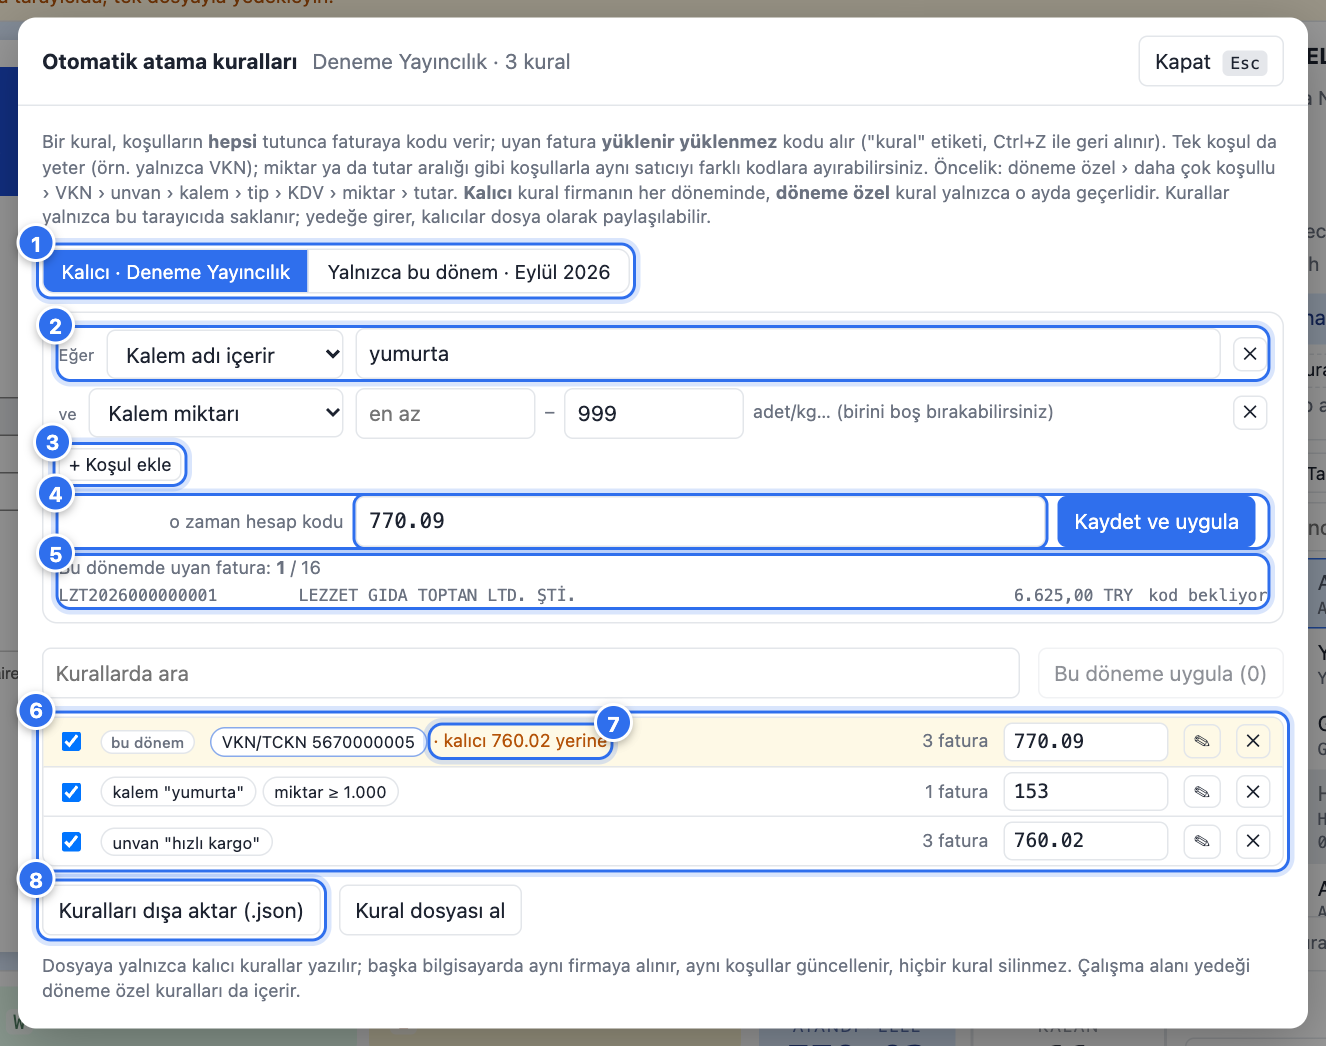
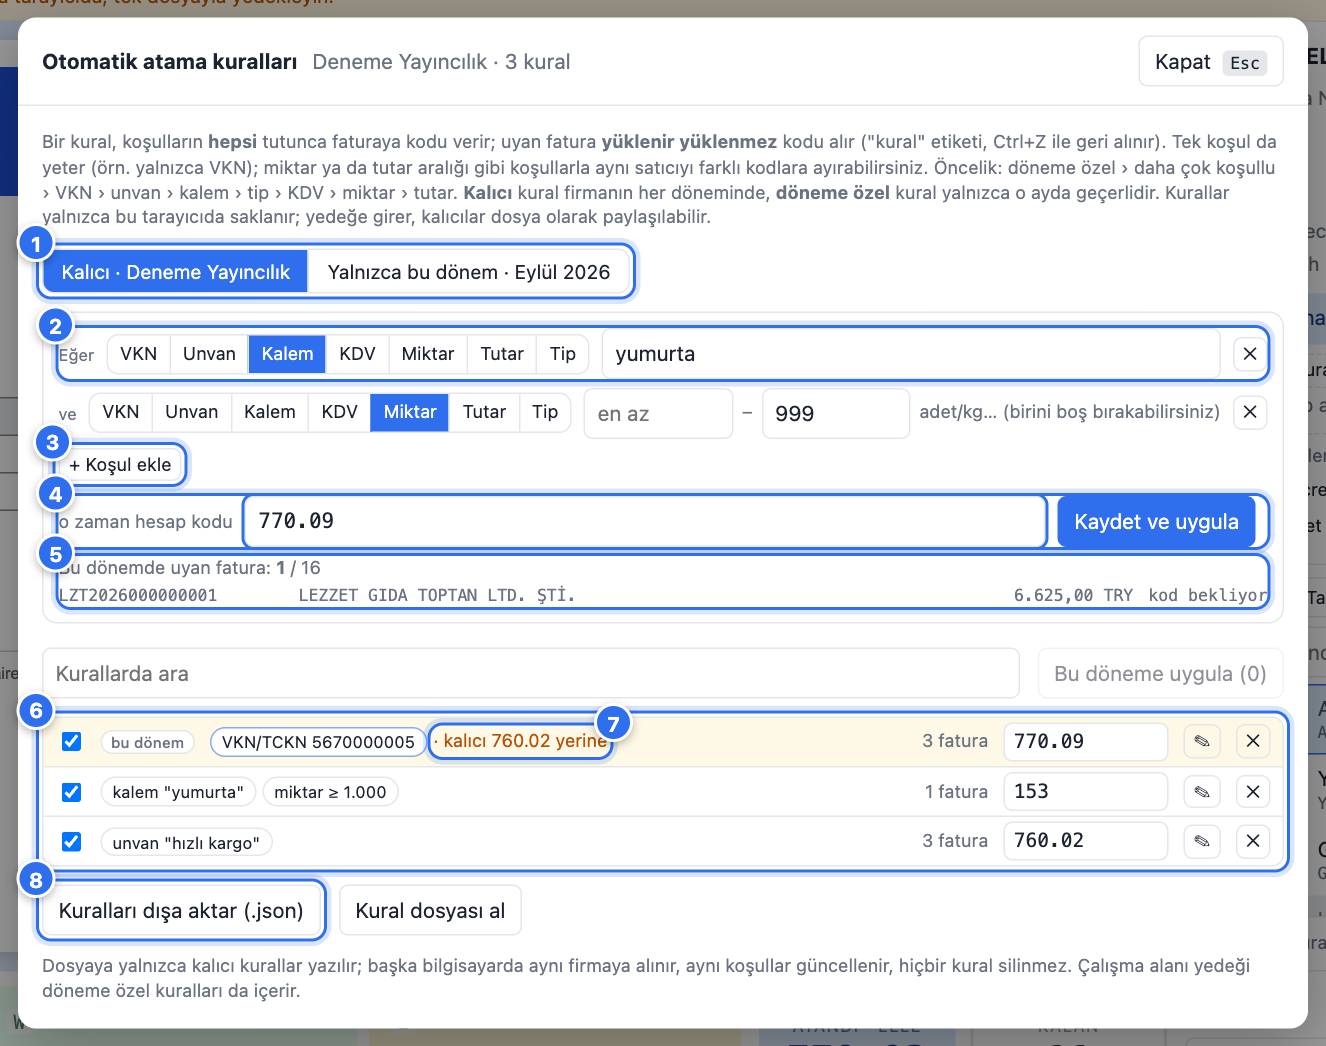
Panelde kalemler ve kalemden kural taslağı; kural penceresinde koşul türü düğmeleri
Kullanıcı kuralı faturaya bakarken kuruyor ("3000 tane almış, satmak içindir"). Sağ panelde
Kalemler bölümü (ad, miktar+birim, KDV); her kalemin yanındaki ⚡ kural penceresini
"kalem <sözcük> + miktar ≥ <miktar> + faturanın kodu" taslağıyla açar. Koşul türü seçimi
açılır liste yerine düğmeler. LineInfo.label (özgün ad), Dexie v10 eski kayıtları tamamlar.
Rehber: panel notu, yeni 13b görseli.

diff --git a/src/ui/guide/sections.tsx b/src/ui/guide/sections.tsx
@@ -88,6 +88,7 @@ export const sections: Section[] = [
           <>Arama: numara, satıcı, tutar (<K k="Ctrl+F" />).</>,
           <>Liste: kod alan satır yuvanın rengini alır. Tıklayınca o fatura açılır.</>,
           <>Fatura sayısı; yanlış yüklenen faturayı <b>çıkar</b>, başka firmaya <b>taşı</b>.</>,
+          <>Kalemler: ad, miktar, KDV oranı. Yanındaki ⚡ o kalem ve miktarından kural taslağı açar (bkz. Kurallar).</>,
         ]} />
       </>
     ),
@@ -167,13 +168,17 @@ export const sections: Section[] = [
         <p>Tek bilgi her zaman yetmez: aynı satıcıdan farklı kodlara giden alışlar olabilir. Bu yüzden bir kural <b>bir ya da daha çok <T t="koşul" /></b>dan oluşur (sayı sınırı yok) ve hepsi birlikte tutmalıdır. Koşul türleri: satıcı VKN/TCKN, unvanda geçen metin, kalem adında geçen metin, KDV oranı, kalem miktarı aralığı, fatura tutarı aralığı, fatura tipi.</p>
         <Shot src="13-kurallar.png" alt="Kurallar penceresi" notes={[
           <><T t="kalıcı kural">Kalıcı</T>: her ay geçerli. <T t="dönem kuralı">Yalnızca bu dönem</T>: o ay için; kalıcının önüne geçer.</>,
-          <>Koşul satırları: "Eğer … ve …". Türü seçin, değeri yazın. Aralıklarda alt ya da üst sınırı boş bırakabilirsiniz (örn. "≥ 1000").</>,
+          <>Koşul satırları: "Eğer … ve …". Türü düğmelerden seçin (VKN · Unvan · Kalem · KDV · Miktar · Tutar · Tip), değeri yazın. Aralıklarda alt ya da üst sınırı boş bırakabilirsiniz (örn. "≥ 1000").</>,
           <><b>+ Koşul ekle</b>: istediğiniz kadar koşul; hepsi birlikte tutmalı. "Ya da" için ayrı bir kural yazın.</>,
           <>"o zaman hesap kodu" ve <b>Kaydet ve uygula</b>; <K k="Enter" /> da kaydeder.</>,
           <>Canlı önizleme: bu dönemde kaç faturaya uyduğu, ilk birkaçı ve başka bir kuralın önde kaldığı durumlar. Kaydetmeden önce kontrol edin.</>,
           <>Kayıtlı kurallar koşul rozetleriyle; kaç faturaya uyduğu görünür. Kutucukla kapatılır, kod burada düzeltilir, ✎ ile koşullar değiştirilir.</>,
           <>Dönem kuralı bir kalıcı kuralın yerine geçiyorsa sessizce burada yazar.</>,
           <>Kuralları dosya olarak dışa aktarıp başka kullanıcıya verebilirsiniz.</>,
+        ]} />
+        <Shot src="13b-kalemden-kural.png" alt="Kalemden kural" w="narrow" notes={[
+          <>Panelde faturanın kalemleri: ad, miktar, KDV. "Çuval almış, 3000 tane; satmak içindir" dediğiniz anda kalemin yanındaki <b>⚡</b>'ya basın.</>,
+          <>Pencere hazır taslakla açılır: kalem adı içerir "yumurta" + kalem miktarı en az 3000 + bu faturanın kodu. Eşiği (örn. 1000) ve kodu düzeltip kaydedin.</>,
         ]} />
         <p>Örnek: Lezzet Gıda'dan alınan <b>30'lu yumurta</b> ikramdır (770.09), <b>3000 yumurta</b> ise satış için alınmıştır (153). İki kural: kalem "yumurta" + miktar ≤ 999 → 770.09; kalem "yumurta" + miktar ≥ 1000 → 153. Miktar, aynı kuraldaki kalem adıyla aynı kalemde aranır. Benzer biçimde "unvan ABC Kırtasiye + kalem klasör → 543" ya da "KDV %10 → 153" yazılabilir.</p>
         <p><b>Birden çok kural uyarsa</b> hangisi kazanır? Önce döneme özel olan, sonra daha çok koşullu (daha belirgin) olan, sonra VKN › unvan › kalem › tip › KDV › miktar › tutar sırası, sonra en son güncellenen. Yani "VKN 123… → 770" ile "VKN 123… + kalem klasör → 543" birlikte varsa klasörlü faturalar 543, diğerleri 770 alır.</p>

diff --git a/src/ui/styles.css b/src/ui/styles.css
@@ -434,7 +434,7 @@ tr.iss-chart td.code-col { color: var(--warn); text-decoration: underline wavy v
 
 /* Kural kurucu: koşul satırları */
 .rule-form { display: flex; flex-direction: column; gap: 6px; padding: 10px; border: 1px solid var(--line); border-radius: 10px; background: color-mix(in srgb, var(--panel) 60%, transparent); }
-.rule-form .cond-row { display: grid; grid-template-columns: 190px 1fr auto; gap: 8px; align-items: center; }
+.rule-form .cond-row { display: grid; grid-template-columns: auto 1fr auto; gap: 8px; align-items: center; }
 .rule-form .cond-row .cond-and { font-size: 11px; color: var(--muted); text-align: right; padding-right: 2px; }
 .cond-kind { min-width: 0; }
 .cond-inputs { display: flex; gap: 6px; align-items: center; min-width: 0; }
@@ -443,7 +443,7 @@ tr.iss-chart td.code-col { color: var(--warn); text-decoration: underline wavy v
 .cond-inputs .cond-min, .cond-inputs .cond-max { width: 120px; }
 .cond-inputs .cond-vat-other { width: 90px; }
 .cond-inputs .unit { font-size: 12px; color: var(--muted); white-space: nowrap; }
-.rule-form .rule-then { display: grid; grid-template-columns: 190px 1fr auto auto; gap: 8px; align-items: center; margin-top: 4px; }
+.rule-form .rule-then { display: grid; grid-template-columns: auto 1fr auto auto; gap: 8px; align-items: center; margin-top: 4px; }
 .rule-form .rule-then .then-label { font-size: 12px; color: var(--muted); text-align: right; }
 .rule-form .add-cond { align-self: flex-start; }
 .rule-preview { font-size: 12px; color: var(--muted); display: flex; flex-direction: column; gap: 2px; }
@@ -457,3 +457,17 @@ tr.iss-chart td.code-col { color: var(--warn); text-decoration: underline wavy v
 .rule-row .rule-edit { flex: none; }
 .rule-row.editing { outline: 2px solid var(--accent); outline-offset: -2px; }
 @media (max-width: 700px) { .rule-form .cond-row, .rule-form .rule-then { grid-template-columns: 1fr; } }
+
+/* Panel: kalemler */
+.lines { margin-top: 8px; border-top: 1px dashed var(--line); padding-top: 6px; }
+.lines-head { display: flex; justify-content: space-between; font-size: 12px; color: var(--muted); margin-bottom: 2px; }
+.line-row { display: grid; grid-template-columns: 1fr auto auto auto; gap: 6px; align-items: center; font-size: 12px; padding: 1px 0; }
+.line-name { overflow: hidden; text-overflow: ellipsis; white-space: nowrap; }
+.line-qty { white-space: nowrap; font-variant-numeric: tabular-nums; }
+.line-vat { min-width: 30px; text-align: right; }
+.line-rule { padding: 0 5px; }
+/* Kural kurucu: koşul türü düğmeleri */
+.cond-kind { display: inline-flex; border: 1px solid var(--line); border-radius: 8px; overflow: hidden; }
+.cond-kind button { border: 0; border-radius: 0; background: transparent; padding: 4px 8px; font-size: 12px; }
+.cond-kind button + button { border-left: 1px solid var(--line); }
+.cond-kind button.on { background: var(--accent); color: var(--accent-ink); }

diff --git a/src/ui/SidePanel.tsx b/src/ui/SidePanel.tsx
@@ -1,11 +1,35 @@
 import { useEffect, useRef } from 'preact/hooks';
 import * as S from './state';
-import { ruleLabel } from '../core/rules';
+import { ruleLabel, keywordOf, unitLabel } from '../core/rules';
 import { askConfirm } from './dialog';
 import { fmtAmount } from './InvoiceCard';
 import { SORT_LABELS, type SortMode } from '../core/sort';
 import type { FilterMode } from '../core/types';
 import { useState } from 'preact/hooks';
+
+const MAX_LINES = 8;
+
+/** Seçili faturanın kalemleri: ad, miktar, KDV; her kalemden "miktara göre kural" taslağı */
+function Lines({ inv, code }: { inv: NonNullable<typeof S.current.value>; code: string | undefined }) {
+  const [all, setAll] = useState(false);
+  const shown = all ? inv.lines : inv.lines.slice(0, MAX_LINES);
+  const fmtQty = (q: number | null, u: string) => (q === null ? '' : `${q.toLocaleString('tr-TR', { maximumFractionDigits: 3 })} ${unitLabel(u)}`);
+  return (
+    <div class="lines">
+      <div class="lines-head"><span>Kalemler ({inv.lines.length})</span><span class="muted small">⚡ kalemden kural</span></div>
+      {shown.map((l) => (
+        <div class="line-row" title={l.label ?? l.name}>
+          <span class="line-name">{l.label ?? l.name}</span>
+          <span class="line-qty">{fmtQty(l.qty, l.unit)}</span>
+          <span class="line-vat muted">{l.vat !== null ? `%${l.vat}` : ''}</span>
+          <button class="ghost tiny line-rule" title={`Bu kalem ve miktarı için kural yap: kalem "${keywordOf(l.label ?? l.name)}" + miktar ≥ ${l.qty ?? '?'} → ${code ?? 'kod'}`}
+            onClick={() => S.openRules({ conds: [{ kind: 'item', text: keywordOf(l.label ?? l.name) }, ...(l.qty !== null ? [{ kind: 'qty' as const, min: l.qty, max: null }] : [])], code: code ?? '' })}>⚡</button>
+        </div>
+      ))}
+      {inv.lines.length > MAX_LINES && <button class="ghost tiny" onClick={() => setAll(!all)}>{all ? 'Daha az göster' : `+ ${inv.lines.length - MAX_LINES} kalem daha`}</button>}
+    </div>
+  );
+}
 
 export function SidePanel() {
   const inv = S.current.value;
@@ -60,6 +84,7 @@ export function SidePanel() {
           {code && S.accounts.value.length > 0 && S.accountMap.value.has(code) && (
             <div class="detail-row"><span>Hesap adı</span><b>{S.accountMap.value.get(code)}</b></div>
           )}
+          {inv.lines.length > 0 && <Lines inv={inv} code={code} />}
           {S.issuesFor(inv).filter((k) => k !== 'no-code').map((k) => (
             <div class="issue">{S.ISSUE_LABEL[k]}</div>
           ))}

diff --git a/src/ui/RulesModal.tsx b/src/ui/RulesModal.tsx
@@ -5,6 +5,7 @@ import { TYPE_LABELS, type Invoice } from '../core/types';
 import { fmtAmount } from './InvoiceCard';
 
 const KINDS = Object.keys(COND_LABELS) as CondKind[];
+const KIND_SHORT: Record<CondKind, string> = { vkn: 'VKN', name: 'Unvan', item: 'Kalem', vat: 'KDV', qty: 'Miktar', amount: 'Tutar', type: 'Tip' };
 
 /** Seçili faturadan koşul için uygun başlangıç değeri */
 function seedCond(kind: CondKind, inv: Invoice | null): Cond {
@@ -29,9 +30,9 @@ function CondRow({ c, i, total, inv, onChange, onRemove, inputRef }: { c: Cond; 
     <div class="cond-row">
       <div class="row-inline" style="justify-content:flex-start; gap:6px">
         <span class="cond-and">{i === 0 ? 'Eğer' : 've'}</span>
-        <select class="cond-kind" value={c.kind} onKeyDown={stop} onChange={(e) => { const k = (e.currentTarget as HTMLSelectElement).value as CondKind; setVatOther(false); onChange(seedCond(k, inv)); }} title="Koşul türü">
-          {KINDS.map((k) => <option value={k}>{COND_LABELS[k]}</option>)}
-        </select>
+        <div class="cond-kind" role="radiogroup" aria-label="Koşul türü">
+          {KINDS.map((k) => <button data-k={k} class={c.kind === k ? 'on' : ''} title={COND_LABELS[k]} onClick={() => { if (k === c.kind) return; setVatOther(false); onChange(seedCond(k, inv)); }}>{KIND_SHORT[k]}</button>)}
+        </div>
       </div>
       <div class="cond-inputs">
         {(c.kind === 'vkn' || c.kind === 'name' || c.kind === 'item') && (

diff --git a/src/core/rules.ts b/src/core/rules.ts
@@ -268,6 +268,16 @@ export function upgradeRule(raw: unknown): (Omit<Rule, 'id' | 'firmId' | 'batchI
   return { ...rest, conds, code: r.code.trim(), enabled: r.enabled !== false };
 }
 
+/** UBL birim kodu → ekran (bilinmeyen kod olduğu gibi) */
+export const UNIT_LABELS: Record<string, string> = { C62: 'adet', EA: 'adet', NIU: 'adet', PCE: 'adet', KGM: 'kg', GRM: 'g', LTR: 'lt', MLT: 'ml', MTR: 'm', MTK: 'm²', MTQ: 'm³', KWH: 'kWh', HUR: 'saat', DAY: 'gün', MON: 'ay', ANN: 'yıl', SET: 'takım', PR: 'çift', BX: 'kutu', PK: 'paket', CT: 'koli', TNE: 'ton', KMT: 'km', MIN: 'dk', ADET: 'adet' };
+export const unitLabel = (u: string) => UNIT_LABELS[u.toUpperCase()] ?? u;
+
+/** Kalem adından kural için önerilen anahtar kelime: en az 3 harfli ilk sözcük (kullanıcı düzeltir) */
+export function keywordOf(label: string): string {
+  const words = label.replace(/[()[\]"'.,;:/\\-]+/g, ' ').split(/\s+/).filter(Boolean);
+  return words.find((w) => /\p{L}{3,}/u.test(w)) ?? words[0] ?? label;
+}
+
 /** Kural dosyası (.json) biçimi: yalnızca kalıcı kurallar, firma adıyla; başka kullanıcıya verilebilir */
 export interface RulesFile {
   app: 'fatura-hesap-kodu';

diff --git a/src/core/xml/parseUbl.ts b/src/core/xml/parseUbl.ts
@@ -41,8 +41,10 @@ export interface UblInvoice {
 
 /** Kural eşleştirmesi için kalem özeti */
 export interface LineInfo {
-  /** Kalem adı (Name, yoksa Description), küçük harf, tek boşluk */
+  /** Kalem adı (Name, yoksa Description), küçük harf, tek boşluk (eşleştirme için) */
   name: string;
+  /** Kalem adı özgün yazımıyla (ekran için); eski kayıtlarda yok */
+  label?: string;
   qty: number | null;
   unit: string;
   /** Kalemin KDV oranı (yüzde); yoksa null */
@@ -246,8 +248,10 @@ export function linesOf(root: Element | null, max = 500): LineInfo[] {
     const item = cac(ln, 'Item');
     const qty = child(ln, NS.cbc, 'InvoicedQuantity');
     const vats = kdvPercents(children(ln, NS.cac, 'TaxTotal'));
+    const label = (cbc(item, 'Name') || cbc(item, 'Description')).replace(/\s+/g, ' ').trim();
     return {
-      name: (cbc(item, 'Name') || cbc(item, 'Description')).toLocaleLowerCase('tr').replace(/\s+/g, ' ').trim(),
+      name: label.toLocaleLowerCase('tr'),
+      label,
       qty: toNum(text(qty)),
       unit: qty?.getAttribute('unitCode') ?? '',
       vat: vats.length ? vats[0] : null,

diff --git a/test/migration.test.ts b/test/migration.test.ts
@@ -29,7 +29,7 @@ describe('veritabanı geçişi v3 → v9', () => {
   it('eski veriler varsayılan firmaya taşınır', async () => {
     const { db, DEFAULT_FIRM_ID } = await import('../src/storage/db');
     await db.open();
-    expect(db.verno).toBe(9);
+    expect(db.verno).toBe(10);
     const firms = await db.firms.toArray();
     expect(firms.length).toBe(1);
     expect(firms[0]).toMatchObject({ id: DEFAULT_FIRM_ID, name: 'Eski Firma', chartName: 'Liste X' });
@@ -72,7 +72,7 @@ describe('veritabanı geçişi v8 → v9: kurallar', () => {
     ]);
     v8.close();
     await db.open();
-    expect(db.verno).toBe(9);
+    expect(db.verno).toBe(10);
     const rules = (await db.rules.orderBy('id').toArray()) as unknown as Record<string, unknown>[];
     expect(rules.map((r) => r.id)).toEqual(['r1', 'r2']);
     expect(rules[0]).toMatchObject({ conds: [{ kind: 'vkn', text: '1234567801' }], code: '770.01', enabled: true, batchId: null });

diff --git a/src/storage/db.ts b/src/storage/db.ts
@@ -240,6 +240,18 @@ class AppDb extends Dexie {
         } catch { /* kalem bilgisi boş kalır */ }
       });
     });
+    // v10: kalemlere özgün ad (ekranda gösterim için)
+    this.version(10).stores({}).upgrade(async (tx) => {
+      if (typeof DOMParser === 'undefined') return;
+      await tx.table('invoices').toCollection().modify((r: InvoiceRecord) => {
+        if (!r.xml || !r.lines || r.lines.length === 0 || r.lines[0].label !== undefined) return;
+        try {
+          const doc = new DOMParser().parseFromString(r.xml, 'application/xml');
+          r.lines = linesOf(doc.documentElement);
+          r.vatRates = vatRatesOf(doc.documentElement);
+        } catch { /* olduğu gibi kalır */ }
+      });
+    });
   }
 }
 

diff --git a/test/ubl.test.ts b/test/ubl.test.ts
@@ -44,8 +44,8 @@ describe('UBL-TR XML ayrıştırma', () => {
   it('kurallar için kalem özeti ve KDV oranları', () => {
     const u = parseUbl(read('ubl-sirket.xml'));
     expect(u.lines).toEqual([
-      { name: 'kalem defteri', qty: 10, unit: 'C62', vat: 20 },
-      { name: 'tükenmez kalem', qty: 50, unit: 'C62', vat: 20 },
+      { name: 'kalem defteri', label: 'Kalem defteri', qty: 10, unit: 'C62', vat: 20 },
+      { name: 'tükenmez kalem', label: 'Tükenmez kalem', qty: 50, unit: 'C62', vat: 20 },
     ]);
     expect(u.vatRates).toEqual([20]);
   });
